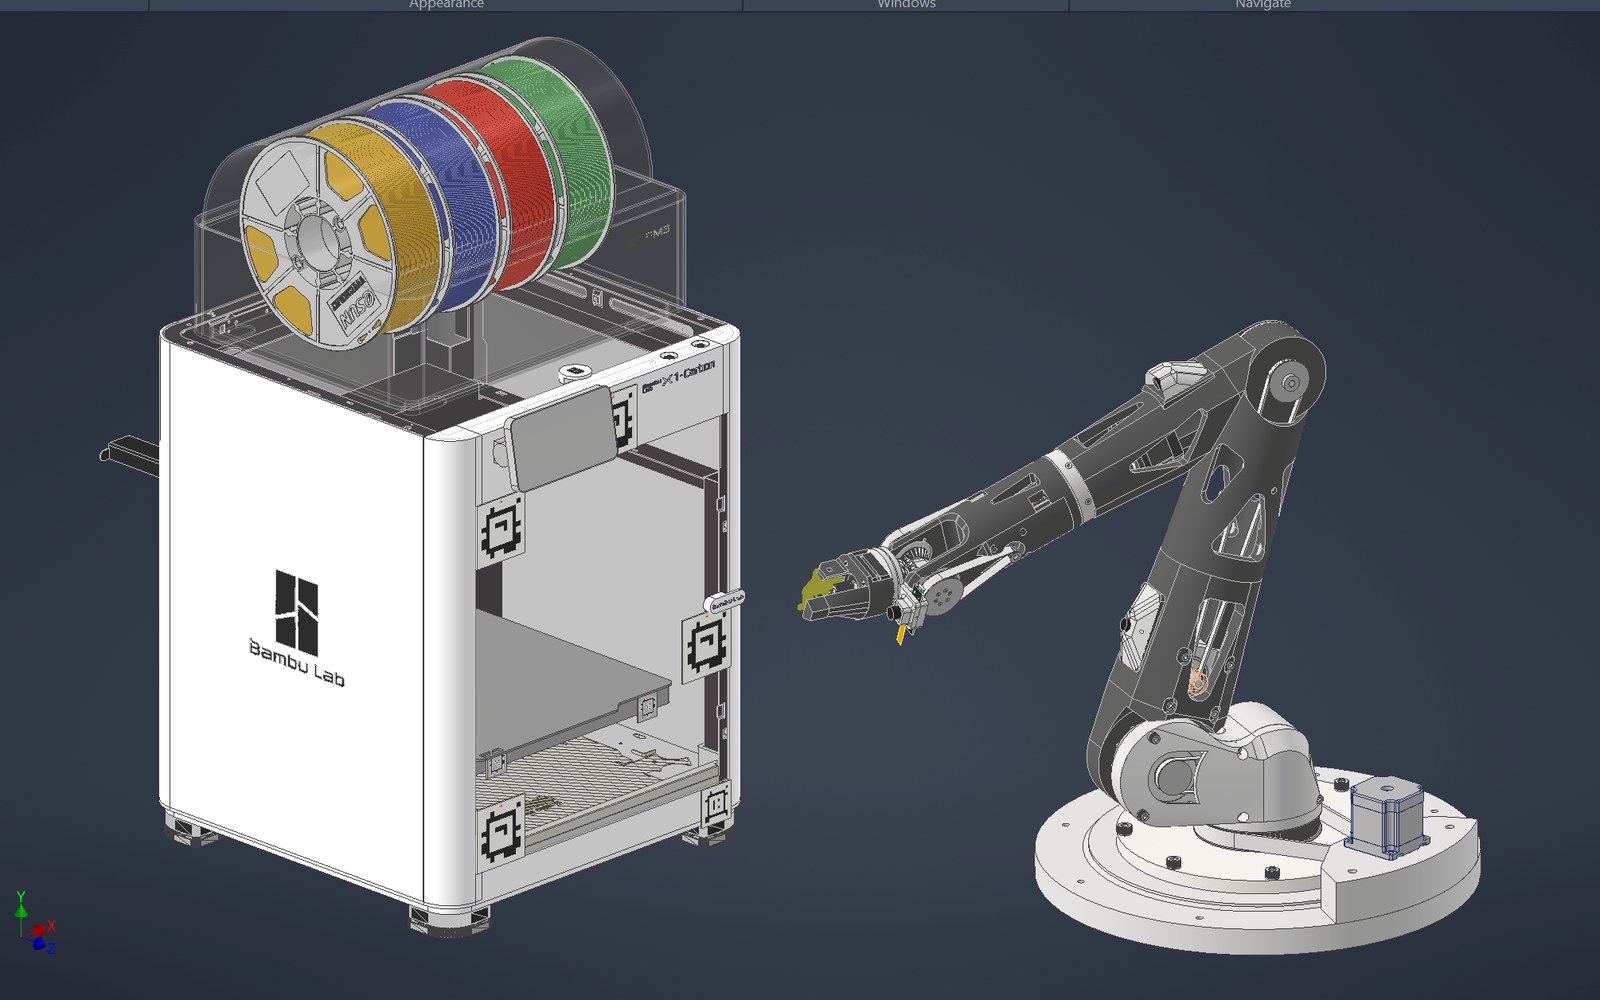
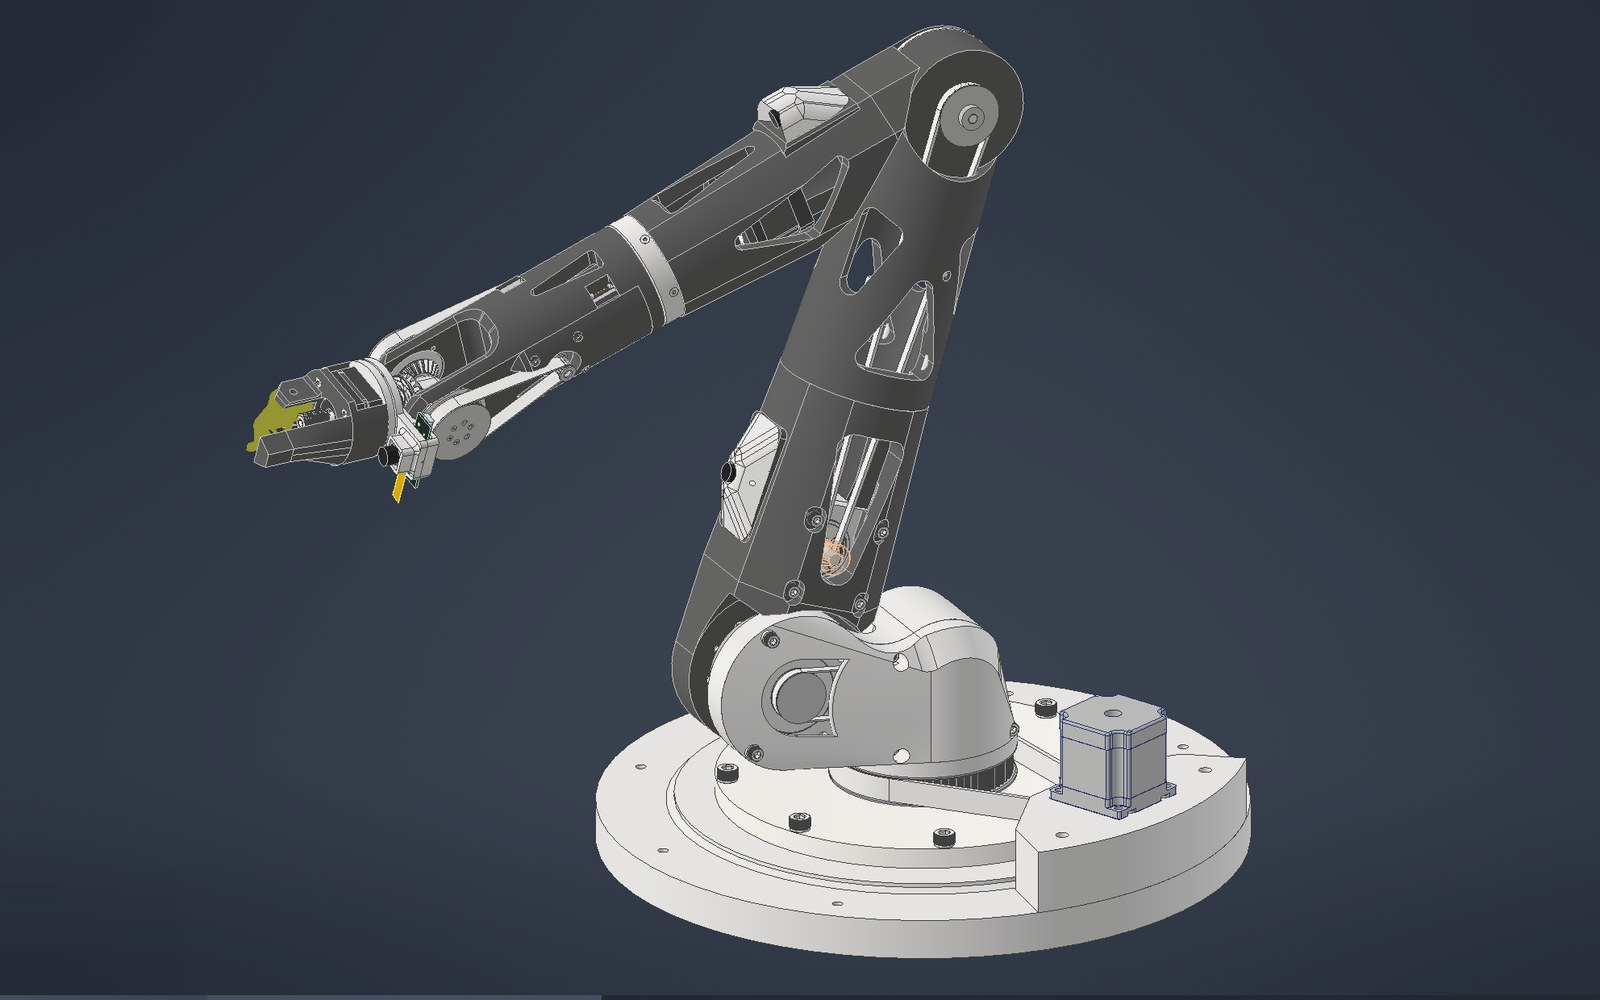
Enrich arm card from design notes; arm-only centered cover
Rewrite the 6-DOF arm card and details modal from Leon's 13-chapter
design record: whole-flex-plate swap into a Bambu X1C, bevel-differential
wrist, printed cycloidal reducers, inside-out AprilTag vision to sub-mm,
passive tool changer, and open-loop Teensy+TMC2209 control with a custom
carrier PCB in progress. Adds a 'How it's engineered' section; every
number fact-checked against source. Stats now 6 DOF / 886 mm reach /
<1 mm target accuracy / $2,500. Cover swapped to the arm-only render
(no printer), centered, with the Inventor axis-triad patched out;
gallery shots re-cropped and centered. Fixes the FlexHead-PCB / Fusion /
closed-loop inaccuracies.

diff --git a/index.html b/index.html
@@ -175,6 +175,9 @@
   .cs-joints{margin-top:14px;display:none;grid-template-columns:1fr 1fr;gap:8px 20px}
   .cs-joints.show{display:grid}
   .cs-joints .jr{display:flex;align-items:center;gap:10px}
+  .cs-sub{margin:14px 0}
+  .cs-sub h5{font-family:var(--font-head);font-size:1rem;font-weight:600;margin-bottom:3px;color:var(--ink)}
+  .cs-sub p{color:var(--muted);font-size:.94rem}
   .cs-joints label{font-size:.8rem;color:var(--muted);font-weight:600;width:104px;flex:none;font-variant-numeric:tabular-nums}
   .cs-joints input[type=range]{flex:1;accent-color:var(--accent);height:4px}
   @media (max-width:560px){.cs-joints{grid-template-columns:1fr}}
@@ -282,8 +285,8 @@
         </div>
         <div class="card-body">
           <h3>6-DOF Robotic Arm</h3>
-          <p>My flagship in-progress build: a six-axis arm designed to tend a Bambu Lab X1C printer — pulling finished plates and reloading it via visual servoing. Currently a detailed CAD design (600+ parts) heading toward fabrication. <strong>Explore the live 3D model and pose the joints in the details view.</strong></p>
-          <div class="tools"><span>Inventor</span><span>Visual servoing</span><span>Closed-loop steppers</span><span>3D printing</span></div>
+          <p>A solo-designed 6-DOF arm that autonomously tends a Bambu Lab X1C — reaching through the printer door to swap the finished magnetic flex plate, dump the parts, and reload the next plate with no human in the loop. The full CAD is complete: a bevel-differential wrist and self-designed printed cycloidal reducers, guided by an arm-mounted AprilTag vision system. <strong>Pose the live 3D model in the details.</strong></p>
+          <div class="tools"><span>Autodesk Inventor</span><span>Ansys FEA</span><span>MuJoCo</span><span>Python</span><span>OpenCV</span></div>
           <a class="card-link" href="#" data-study="arm">Details <span class="arrow">→</span></a>
         </div>
       </article>
@@ -556,8 +559,8 @@
     <button class="cs-close" aria-label="Close details">✕</button>
     <span class="kicker">Details · In progress</span>
     <h3 id="csArmTitle" style="font-size:1.6rem;margin-top:6px">6-DOF Robotic Arm</h3>
-    <p class="cs-meta">Personal project · design stage (not yet fabricated) · Role: everything — concept, CAD, controls plan</p>
-    <p>A six-axis robotic arm I'm designing to automate my own 3D-printing workflow: reach into a Bambu Lab X1C, lift the finished plate off the bed, clear it, and reset the printer for the next job — closing the loop so prints can run back-to-back unattended. Each joint is driven by a closed-loop stepper, and the plan is to guide the arm with visual servoing from a camera rather than blind position control. The full CAD assembly is complete (600+ parts); fabrication is the next phase.</p>
+    <p class="cs-meta">Mechanical + controls design · CAD-complete, not yet fabricated · Role: everything — concept, CAD, analysis, controls</p>
+    <p>An autonomous work cell built around a single question: can one robotic arm run a 3D printer without a human touching it? The answer is a 6-DOF articulated arm that reaches through the door of a Bambu Lab X1C, grips the magnetic flex plate by its front edge, pulls it free, carries it to a dedicated flex-and-dump station that bends the plate to pop parts into a bin, returns it to a magazine, and loads the next plate — closing the full remove, dump, restock, and reload loop. Rather than chase precision through expensive hardware, the design pairs printed cycloidal reducers and a bevel-differential wrist with an arm-mounted ("inside-out") AprilTag vision system that tightens roughly 5–10&nbsp;mm of raw mechanical accuracy down to sub-millimeter at the endpoint. The whole system — arm, wrist differential, tool changer, electronics, and control software — is documented across a 15-chapter design record, validated in a MuJoCo digital twin, and modeled to completion in CAD. Nothing has been fabricated yet — this is a design-stage project, captured at the moment it is ready to build.</p>
 
     <div class="cs-3d">
       <div class="cs-3d-head">
@@ -580,17 +583,24 @@
 
     <div class="cs-stats">
       <div class="cs-stat"><div class="n">6</div><div class="l">degrees of freedom</div></div>
-      <div class="cs-stat"><div class="n">600+</div><div class="l">parts in the assembly</div></div>
-      <div class="cs-stat"><div class="n">≈640 mm</div><div class="l">reach envelope (CAD)</div></div>
-      <div class="cs-stat"><div class="n">Closed-loop</div><div class="l">stepper drive per axis</div></div>
+      <div class="cs-stat"><div class="n">886 mm</div><div class="l">max reach (CAD)</div></div>
+      <div class="cs-stat"><div class="n">&lt;1 mm</div><div class="l">target endpoint accuracy</div></div>
+      <div class="cs-stat"><div class="n">~$2,500</div><div class="l">working budget</div></div>
     </div>
+
+    <h4>How it's engineered</h4>
+    <div class="cs-sub"><h5>A distinct reducer at every joint</h5><p>Instead of one gearbox family throughout, each of the six joints gets a reducer matched to its load: a belt-driven slewing-ring bearing at the base (J1), a 100:1 housed harmonic drive at the shoulder (J2), and self-designed printed cycloidal reducers at the elbow and wrist-roll (J3, J4). A per-joint motor torque budget with stage-efficiency assumptions was independently cross-checked against as-built CAD masses (13.99&nbsp;kg total, 5.76&nbsp;kg distal to the shoulder), confirming worst-case demands of about 25&nbsp;N·m at J2 and 9&nbsp;N·m at J3 — and catching that a 60&nbsp;N plate-peel back-drives the wrist, making a tilt/roll peel strategy mandatory.</p></div>
+    <div class="cs-sub"><h5>A bevel-differential spherical wrist</h5><p>The arm's most complex subassembly is a roll–pitch–roll wrist whose three axes (J4/J5/J6) all intersect at a single point. Two NEMA&nbsp;17 motors staged back in the forearm feed a 4:1 GT2 belt reduction into a 1:1 bevel differential built from catalog KHK miter gears: driving both motors together pitches the wrist, driving them opposite rolls the gripper, and any mix does both at once. Sizing the module-1.5 gears to fill a measured 32&nbsp;mm gap kept the mechanism FDM-printable, while exactly chosen belt center distances removed the need for a tensioner.</p></div>
+    <div class="cs-sub"><h5>Inside-out AprilTag vision</h5><p>Three arm-mounted global-shutter cameras watch world-fixed AprilTag bundles on the printer, stations, and tool dock, servoing the endpoint from roughly 5–10&nbsp;mm of raw mechanical accuracy down to sub-millimeter. Mounting the cameras on the arm rather than overhead means the errors that matter drop out of the measurement, and a wrist camera riding the tool body acts as the precision spine. The camera count was reasoned down to a final three by quantifying that extra cameras added observability but near-zero endpoint precision, and bench tests on real cameras established a ~12&nbsp;px detection floor and validated mandatory fisheye undistortion before any arm hardware existed.</p></div>
+    <div class="cs-sub"><h5>A fail-safe passive tool changer</h5><p>The wrist carries no actuator. A spring-backed ball detent locks the tool as the arm seats a three-vee Maxwell kinematic coupling, and release happens only at the dock — so a power loss can never drop a tool anywhere in the workspace. The first tool is a self-locking flex-plate gripper whose worm drive holds clamp force with no power, with a fixed under-hook (not the clamp) carrying the plate's weight and magnetic peel. Both parts passed Ansys FEA against carbon-filled PPA (PPA-CF), correctly judged against the weak layer-line direction, at safety factors of about 2.5 and 3.6 under a conservative 60&nbsp;N peel load.</p></div>
+    <div class="cs-sub"><h5>Open-loop control and a Python-first stack</h5><p>The design drives the arm open-loop: seven TMC2209 stepper drivers (six joints plus the gripper) off a Teensy&nbsp;4.1 on a 24&nbsp;V rail — a deliberate, reversible trade of joint encoders for the vision servo, with StallGuard providing sensorless hard-stop homing. A custom passive carrier PCB, socketing that Teensy alongside all seven drivers, is fully specced and handed off for layout. The software is a two-tier stack: a plain-Python (no ROS) host architected for vision, planning, and kinematics over a Teensy firmware tier. Its analytic-kinematics package and MuJoCo digital twin are already built and validated — analytic and simulated forward kinematics agree to 0.0&nbsp;mm across 12 passing tests, with all seven task poses proven reachable and collision-free.</p></div>
 
     <h4>Gallery</h4>
     <div class="cs-gallery">
-      <figure><img src="img/arm/arm-solo.jpg" alt="CAD render of the 6-DOF arm" loading="lazy"><figcaption>The arm assembly — base yaw, shoulder, elbow, and a 3-axis wrist ending in a quick-change tool mount.</figcaption></figure>
-      <figure><img src="img/arm/arm-wireframe.jpg" alt="Wireframe CAD view of the arm showing internal motors" loading="lazy"><figcaption>Wireframe — the stepper motors and drivetrain packed inside each link.</figcaption></figure>
+      <figure><img src="img/arm/arm-solo.jpg" alt="CAD render of the 6-DOF arm on its corner pedestal" loading="lazy"><figcaption>The complete 6-DOF arm on its corner pedestal, modeled to reach through the X1C's door.</figcaption></figure>
+      <figure><img src="img/arm/arm-wireframe.jpg" alt="Wireframe CAD view of the arm exposing internal motors and reducers" loading="lazy"><figcaption>Wireframe cutaway exposing the motors and reducers tucked inside the links.</figcaption></figure>
     </div>
-    <p style="font-size:.9rem;color:var(--muted)">More coming as the build progresses — control electronics, the visual-servoing pipeline, and fabrication photos once parts are printed and machined.</p>
+    <p style="font-size:.9rem;color:var(--muted)">More coming as the build progresses — the custom carrier PCB, the visual-servoing pipeline, and fabrication photos once parts are printed and machined.</p>
   </div>
 </div>
 